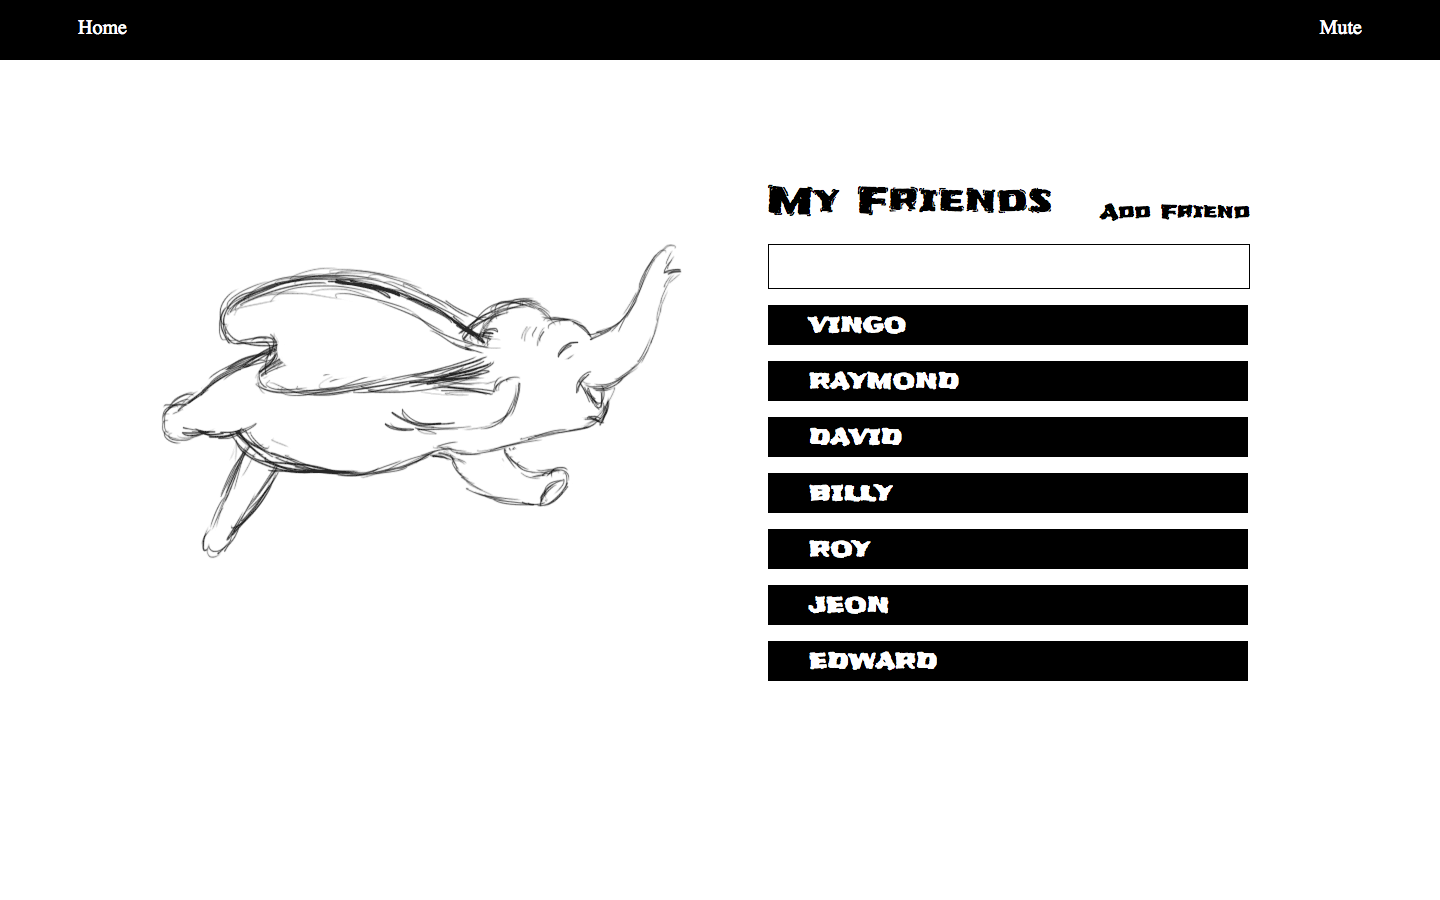
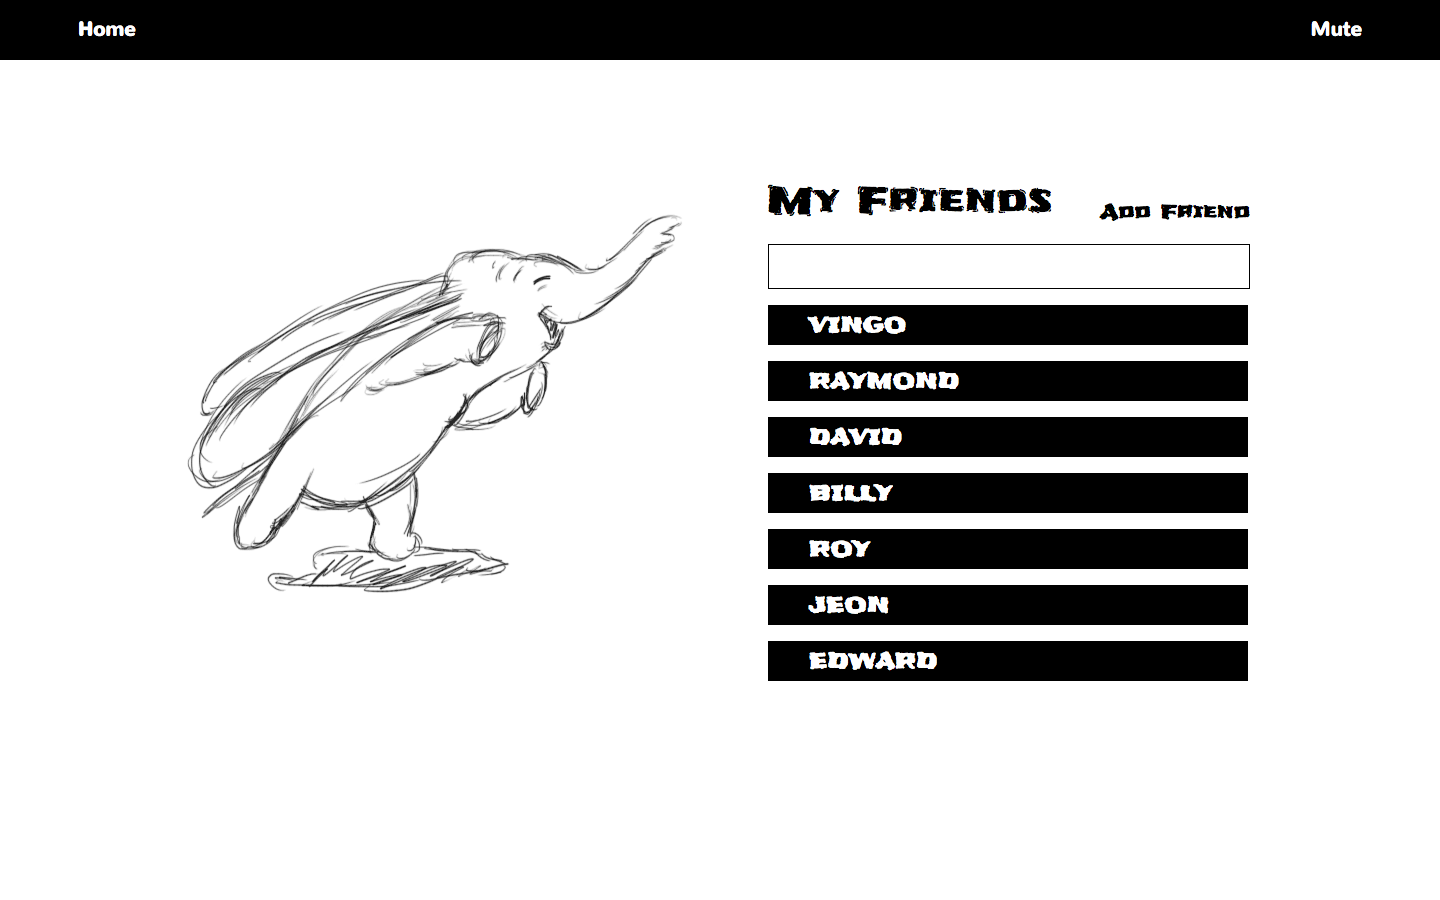
fix nav bar font

diff --git a/materials/friend/friend.html b/materials/friend/friend.html
@@ -8,6 +8,7 @@
 	<script type="application/x-javascript">addEventListener("load",function(){setTimeout(hideURLbar,0);},false);function hideURLbar(){window.scrollTo(0,1);}</script>
 	<script src= "http://ajax.googleapis.com/ajax/libs/angularjs/1.3.14/angular.min.js"></script>
 	<link href='http://fonts.googleapis.com/css?family=Frijole' rel='stylesheet' type='text/css'>
+	<link href='http://fonts.googleapis.com/css?family=Nunito:700' rel='stylesheet' type='text/css'>
 </head>
 
 <body>
@@ -17,7 +18,7 @@
 		<!-- <button id="friend">Home</button>
 		<button id="ranking">Home</button> -->
 	</div>
-	
+
 	<div class="friend-form">
 		<h1>My Friends</h1>
 		<h2><a href="#">Add Friend</a></h2>
